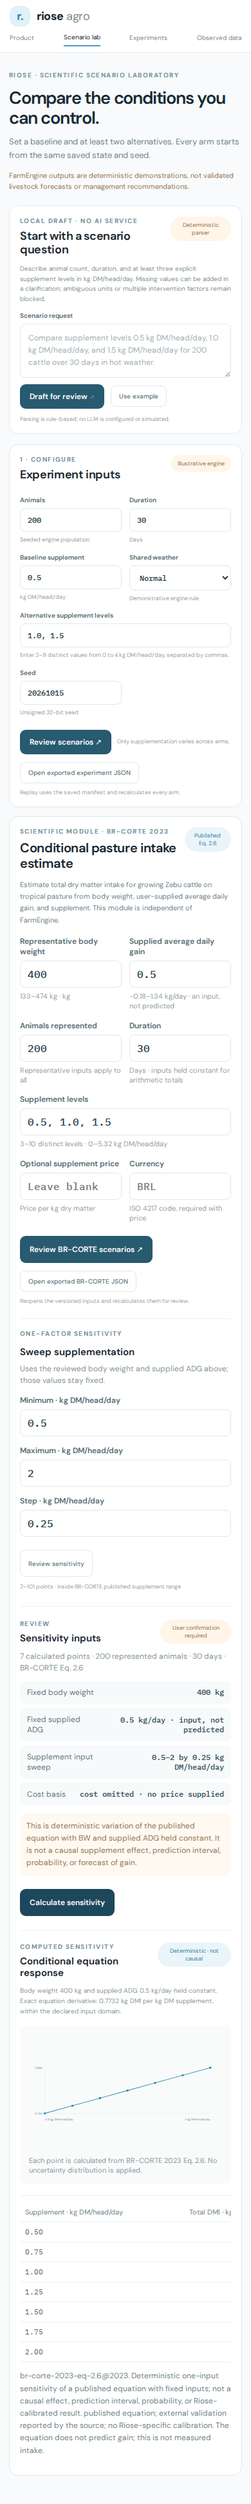
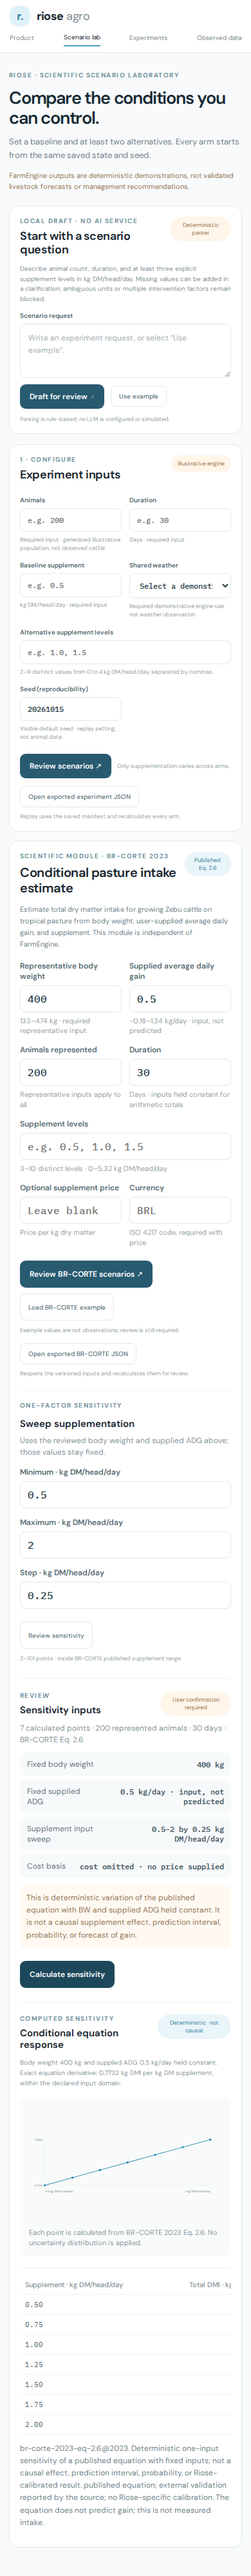
fix: distinguish V4 examples from cattle inputs

diff --git a/scenario-lab.html b/scenario-lab.html
@@ -32,7 +32,7 @@
       <div class="lab-card-heading"><div><p class="eyebrow">LOCAL DRAFT · NO AI SERVICE</p><h2 id="prompt-title">Start with a scenario question</h2></div><span class="engine-badge">Deterministic parser</span></div>
       <p class="prompt-description">Describe animal count, duration, and at least three explicit supplement levels in kg DM/head/day. Missing values can be added in a clarification; ambiguous units or multiple intervention factors remain blocked.</p>
       <label class="prompt-label" for="scenario-prompt">Scenario request</label>
-      <textarea id="scenario-prompt" maxlength="1200" rows="3" placeholder="Compare supplement levels 0.5 kg DM/head/day, 1.0 kg DM/head/day, and 1.5 kg DM/head/day for 200 cattle over 30 days in hot weather."></textarea>
+      <textarea id="scenario-prompt" maxlength="1200" rows="3" placeholder="Write an experiment request, or select “Use example”."></textarea>
       <div class="prompt-actions"><button id="draft-scenario" class="primary-button" type="button">Draft for review <span aria-hidden="true">↗</span></button><button id="fill-prompt-example" class="text-button" type="button">Use example</button><span>Parsing is rule-based; no LLM is configured or simulated.</span></div>
       <p id="prompt-result" class="prompt-result" role="status" aria-live="polite"></p>
     </section>
@@ -41,12 +41,12 @@
       <form id="scenario-form" class="lab-card setup-card">
         <div class="lab-card-heading"><div><p class="eyebrow">1 · CONFIGURE</p><h2>Experiment inputs</h2></div><span class="engine-badge">Illustrative engine</span></div>
         <div class="lab-fields">
-          <label>Animals<input name="animalCount" type="number" min="1" max="10000" step="1" value="200" required><small>Seeded engine population</small></label>
-          <label>Duration<input name="durationDays" type="number" min="1" max="365" step="1" value="30" required><small>Days</small></label>
-          <label>Baseline supplement<input name="baselineSupplement" type="number" min="0" max="4" step="0.1" value="0.5" required><small>kg DM/head/day</small></label>
-          <label>Shared weather<select name="weather"><option value="normal">Normal</option><option value="hot">Hot rule set</option><option value="rain">Rain rule set</option></select><small>Demonstrative engine rule</small></label>
-          <label class="lab-wide">Alternative supplement levels<input name="alternativeLevels" type="text" value="1.0, 1.5" maxlength="120" required><small>Enter 2–9 distinct values from 0 to 4 kg DM/head/day, separated by commas.</small></label>
-          <label>Seed<input name="seed" type="number" min="0" max="4294967295" step="1" value="20261015" required><small>Unsigned 32-bit seed</small></label>
+          <label>Animals<input name="animalCount" type="number" min="1" max="10000" step="1" placeholder="e.g. 200" required><small>Required input · generated illustrative population, not observed cattle</small></label>
+          <label>Duration<input name="durationDays" type="number" min="1" max="365" step="1" placeholder="e.g. 30" required><small>Days · required input</small></label>
+          <label>Baseline supplement<input name="baselineSupplement" type="number" min="0" max="4" step="0.1" placeholder="e.g. 0.5" required><small>kg DM/head/day · required input</small></label>
+          <label>Shared weather<select name="weather" required><option value="" selected disabled>Select a demonstrative rule</option><option value="normal">Normal rule set</option><option value="hot">Hot rule set</option><option value="rain">Rain rule set</option></select><small>Required demonstrative engine rule · not weather observation</small></label>
+          <label class="lab-wide">Alternative supplement levels<input name="alternativeLevels" type="text" placeholder="e.g. 1.0, 1.5" maxlength="120" required><small>2–9 distinct values from 0 to 4 kg DM/head/day, separated by commas.</small></label>
+          <label>Seed (reproducibility)<input name="seed" type="number" min="0" max="4294967295" step="1" value="20261015" required><small>Visible default seed · replay setting, not animal data</small></label>
         </div>
         <div class="lab-actions"><button class="primary-button" type="submit">Review scenarios <span aria-hidden="true">↗</span></button><span>Only supplementation varies across arms.</span></div>
         <div class="saved-manifest"><button id="load-manifest" class="text-button" type="button">Open exported experiment JSON</button><input id="manifest-file" type="file" accept="application/json,.json" hidden><span>Replay uses the saved manifest and recalculates every arm.</span></div>
@@ -82,15 +82,16 @@
       <p class="scientific-intro">Estimate total dry matter intake for growing Zebu cattle on tropical pasture from body weight, user-supplied average daily gain, and supplement. This module is independent of FarmEngine.</p>
       <form id="br-corte-form">
         <div class="lab-fields scientific-fields">
-          <label>Representative body weight<input name="bodyWeightKg" type="number" min="133" max="474" step="any" value="400" required><small>133–474 kg · kg</small></label>
-          <label>Supplied average daily gain<input name="adgKgPerDay" type="number" min="-0.18" max="1.34" step="any" value="0.5" required><small>−0.18–1.34 kg/day · an input, not predicted</small></label>
-          <label>Animals represented<input name="animalCount" type="number" min="1" max="10000" step="1" value="200" required><small>Representative inputs apply to all</small></label>
-          <label>Duration<input name="durationDays" type="number" min="1" max="365" step="1" value="30" required><small>Days · inputs held constant for arithmetic totals</small></label>
-          <label class="lab-wide">Supplement levels<input name="supplementLevels" type="text" maxlength="120" value="0.5, 1.0, 1.5" required><small>3–10 distinct levels · 0–5.32 kg DM/head/day</small></label>
+          <label>Representative body weight<input name="bodyWeightKg" type="number" min="133" max="474" step="any" placeholder="e.g. 400" required><small>133–474 kg · required representative input</small></label>
+          <label>Supplied average daily gain<input name="adgKgPerDay" type="number" min="-0.18" max="1.34" step="any" placeholder="e.g. 0.5" required><small>−0.18–1.34 kg/day · input, not predicted</small></label>
+          <label>Animals represented<input name="animalCount" type="number" min="1" max="10000" step="1" placeholder="e.g. 200" required><small>Representative inputs apply to all</small></label>
+          <label>Duration<input name="durationDays" type="number" min="1" max="365" step="1" placeholder="e.g. 30" required><small>Days · inputs held constant for arithmetic totals</small></label>
+          <label class="lab-wide">Supplement levels<input name="supplementLevels" type="text" maxlength="120" placeholder="e.g. 0.5, 1.0, 1.5" required><small>3–10 distinct levels · 0–5.32 kg DM/head/day</small></label>
           <label>Optional supplement price<input name="supplementPrice" type="number" min="0" step="any" placeholder="Leave blank to omit cost"><small>Price per kg dry matter</small></label>
-          <label>Currency<input name="currency" type="text" maxlength="3" pattern="[A-Za-z]{3}" placeholder="BRL"><small>ISO 4217 code, required with price</small></label>
+          <label>Currency<input name="currency" type="text" maxlength="3" pattern="[A-Za-z]{3}" placeholder="e.g. BRL"><small>ISO 4217 code, required with price</small></label>
         </div>
-        <div class="lab-actions"><button class="primary-button" type="submit">Review BR-CORTE scenarios <span aria-hidden="true">↗</span></button></div>
+        <div class="lab-actions"><button class="primary-button" type="submit">Review BR-CORTE scenarios <span aria-hidden="true">↗</span></button><button id="fill-br-corte-example" class="text-button" type="button">Load BR-CORTE example</button><span>Example values are not observations; review is still required.</span></div>
+        <p id="br-corte-example-status" class="prompt-result" role="status" aria-live="polite"></p>
       </form>
       <div class="saved-manifest scientific-saved"><button id="br-corte-load" class="text-button" type="button">Open exported BR-CORTE JSON</button><input id="br-corte-file" type="file" accept="application/json,.json" hidden><span>Reopens the versioned inputs and recalculates them for review.</span></div>
       <form id="br-corte-sensitivity-form" class="sensitivity-request" aria-labelledby="sensitivity-request-title">

diff --git a/src/client/scenario-lab-app.js b/src/client/scenario-lab-app.js
@@ -731,10 +731,31 @@ $('br-corte-form').addEventListener('submit', event => {
 
 $('br-corte-form').addEventListener('input', () => {
   resetBrCorteSensitivity();
+  $('br-corte-example-status').textContent = '';
   reviewedBrCorteManifest = null;
   brCorteResult = null;
   $('br-corte-review').hidden = true;
   $('br-corte-results').hidden = true;
+});
+
+$('fill-br-corte-example').addEventListener('click', () => {
+  const form = $('br-corte-form');
+  const example = {
+    bodyWeightKg: '400',
+    adgKgPerDay: '0.5',
+    animalCount: '200',
+    durationDays: '30',
+    supplementLevels: '0.5, 1.0, 1.5',
+    supplementPrice: '',
+    currency: '',
+  };
+  for (const [name, value] of Object.entries(example)) form.elements[name].value = value;
+  $('br-corte-sensitivity-form').elements.minimumSupplement.value = '0.5';
+  $('br-corte-sensitivity-form').elements.maximumSupplement.value = '2';
+  $('br-corte-sensitivity-form').elements.sweepStep.value = '0.25';
+  form.dispatchEvent(new Event('input', {bubbles: true}));
+  $('br-corte-sensitivity-form').dispatchEvent(new Event('input', {bubbles: true}));
+  $('br-corte-example-status').textContent = 'BR-CORTE example inputs loaded for review. These are illustrative inputs, not observations. No calculation was run.';
 });
 
 $('br-corte-sensitivity-form').addEventListener('submit', event => {

diff --git a/specs/riose-product-v4/handoff.md b/specs/riose-product-v4/handoff.md
@@ -1,14 +1,14 @@
 # Product V4 handoff
 
 Date: 2026-10-15
-Last verified commit: P4-001 SDD bootstrap at `021b978`; P4-002 implementation is being finalized.
+Last verified commit: `62200f8` (P4-002 sensitivity slice); P4-003 changes are validated and pending commit.
 Branch: `codex/behavioral-agents-sdd`.
 
-Completed tasks: P4-001 audit/spec bootstrap; P4-002 sensitivity slice has passed focused/unit and browser E2E checks; baseline full suite was 497/497 before V4 changes.
-Task in progress: none; P4-002 implementation has completed focused checks and is ready to commit.
-READY: P4-003 explicit example/empty-input state; P4-004 user discovery protocol.
+Completed tasks: P4-001 audit/spec bootstrap; P4-002 BR-CORTE sensitivity; P4-003 explicit empty/example inputs. Full suite currently 502/502; parity and V2/V3 E2E pass.
+Task in progress: P4-004 product-discovery protocol.
+READY: none after P4-004; review its evidence and then hand off for real participant recruitment. P3-007/P3-008 gates remain blocked.
 BLOCKED: remote AI agent/tools until P3-007 persistent spend gate; paid decision-use until P3-008 independent review. Behavioral model remains NO-GO.
 Files/evidence: V4 specification directory created; see `progress.md` for audited modules and baseline.
-Tests executed: starting checkout `npm test` 497/497, 0 fail; P4-002 sensitivity 5/5; BR-CORTE scenarios 3/3; Product V3 E2E pass (desktop/mobile sensitivity and edit invalidation); Product V2 E2E pass.
+Tests executed: starting checkout `npm test` 497/497, 0 fail; P4-002 sensitivity 5/5; BR-CORTE scenarios 3/3; Product V3 E2E pass (desktop/mobile sensitivity and edit invalidation; empty/example input state); Product V2 E2E pass; `npm test` 502/502; `npm run test:parity` pass.
 Scientific boundaries: BR-CORTE Eq. 2.6 consumes supplied ADG; it estimates total DMI within its declared domain. FarmEngine is demonstrative. Perea semi-Markov is not connected. No formulas, thresholds or scientific status changed.
-Next action: commit P4-002 evidence, then select P4-003 and test empty forms/example loading/no-auto-run.
+Next action: finish P4-004 demonstration guide, interview script and blank feedback template; no outreach.

diff --git a/specs/riose-product-v4/progress.md b/specs/riose-product-v4/progress.md
@@ -20,3 +20,12 @@
 - Tests: sensitivity contract/schema 5/5; existing BR-CORTE scenario/cost 3/3; Product V3 E2E pass with seven calculated points, range edit invalidation/no automatic execution, desktop capture, mobile result, 390 px no overflow and no browser console errors; Product V2 E2E pass. Captures: `docs/evidence/product-v4-br-corte-sensitivity-desktop.png`, `docs/evidence/product-v4-br-corte-sensitivity-mobile.png`.
 - The initial mobile E2E caught 10 px labels on the new sweep (style selector missed its class). Scoped mobile typography was corrected and the rerun passed.
 - P4-003 is next READY: replace implicit numeric/scientific form values with empty inputs and an explicitly loaded example. Full regression/parity run follows P4-003.
+
+
+## P4-003 — Explicit example and empty-input state
+
+- Cleared population, duration, intervention and BR-CORTE numeric form values on initial load; blank inputs and blank weather rule now block review. The visible reproducibility seed remains and is labeled as configuration, not animal data. Examples are explicit; loading fills editable inputs only and never runs a calculation.
+- Added a BR-CORTE example button using representative values and no price. Inline message says inputs are illustrative and not observations. Prompt example button remains draft-only.
+- E2E asserts initial inputs are empty/invalid, no review/results/Worker post is created, examples load explicitly, and calculation still needs explicit review/confirmation. Product V3 flow passes. Full suite `npm test` 502/502; JS/Rust parity passes 24 pasture and 1,440 hourly housing checkpoints; Product V2 E2E passes.
+- Visual captures: `docs/evidence/product-v4-empty-state.png` and `docs/evidence/product-v4-empty-and-example-state.png`; reviewed at 1440×1000. Sensitivity mobile result capture continues to show 390 px width and no overflow.
+- P4-004 user discovery materials are the next independent READY task; no users were contacted or feedback fabricated.

diff --git a/specs/riose-product-v4/tasks.md b/specs/riose-product-v4/tasks.md
@@ -36,7 +36,7 @@ Implementation scope: Clear initial numeric inputs or mark/load examples explici
 Acceptance criteria: Initial state contains no silently supplied scientific inputs; example selection is visibly labeled and editable; examples cannot be called observed data; invalid/missing values block review.
 Required tests: Product V3 browser E2E, input and accessibility checks.
 Evidence: screenshots and test output.
-Status: READY
+Status: DONE (`npm test` 502/502; parity pass; Product V2 and V3 E2E pass; empty/example state captured and visually inspected).
 
 ## P4-004 — Product discovery protocol
 
@@ -48,7 +48,7 @@ Implementation scope: Demonstrate conditional CMS/cost use case, ask about an ac
 Acceptance criteria: protocol distinguishes product demand from scientific validation; blank records only; no contacts or findings fabricated.
 Required tests: document consistency review; no software test needed.
 Evidence: `docs/product-research/` materials.
-Status: READY
+Status: IN_PROGRESS
 
 ## Reused / gated capabilities
 
